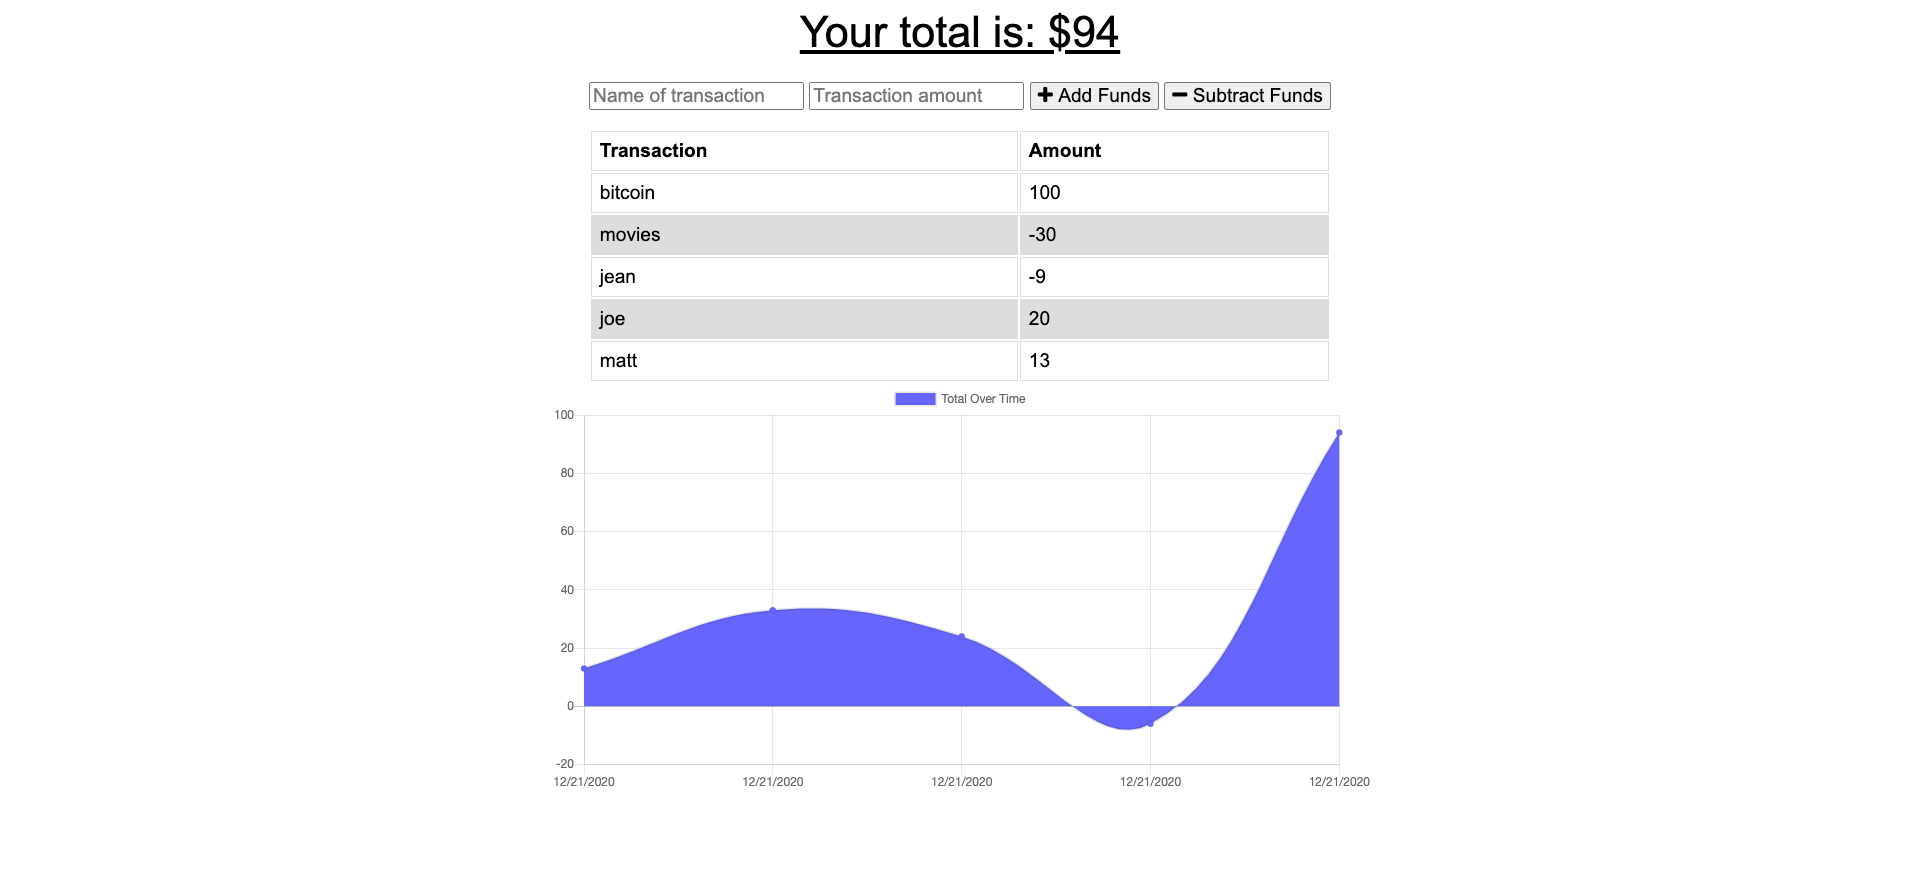
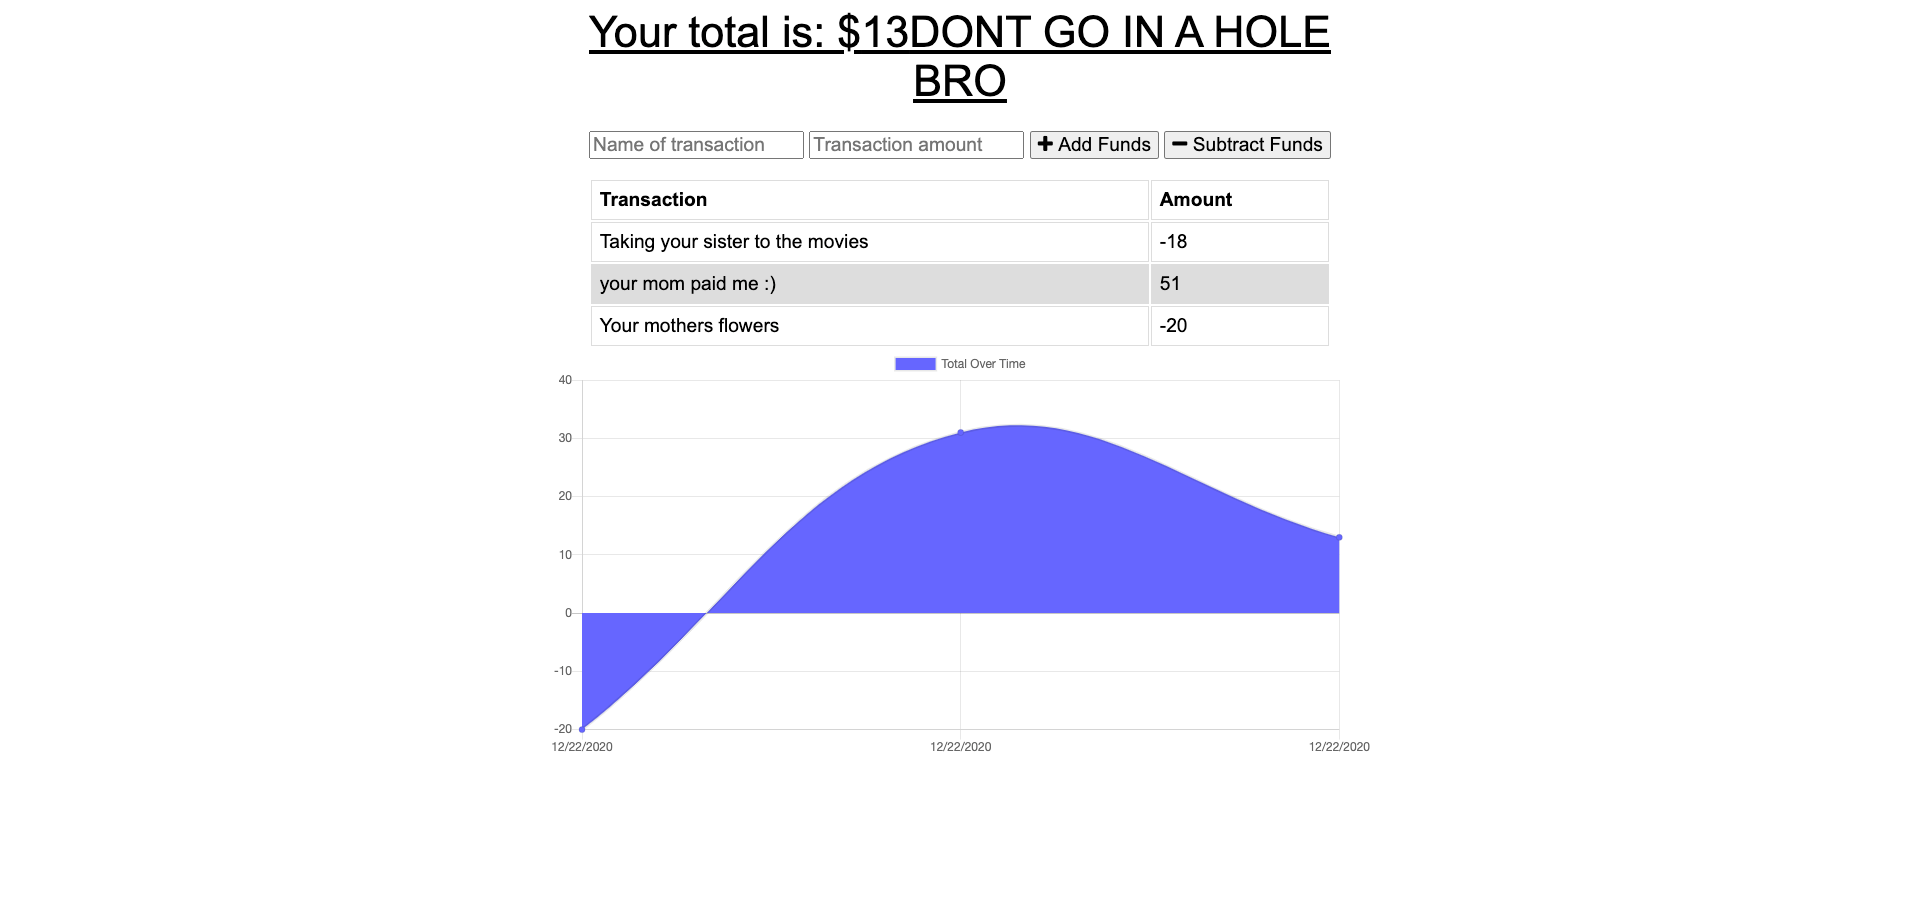
touch ups

diff --git a/public/js/idb.js b/public/js/idb.js
@@ -1,4 +1,3 @@
-//create db var
 let db;
 // create connection to Indexedb db and call it budget_tracker_pwa. Set it to version 1
 const request = window.indexedDB.open('budget_tracker_pwa', 1);
@@ -64,7 +63,6 @@ function uploadTransaction() {
             throw new Error(serverResponse);
           }
 
-          //another one
           const transaction = db.transaction(['budget_tracker_pwa'], 'readwrite');
           const transactionObjectStore = transaction.objectStore('budget_tracker_pwa');
           // clear all items in your store

diff --git a/public/js/index.js b/public/js/index.js
@@ -89,7 +89,6 @@ function sendTransaction(isAdding) {
   if (!isAdding) {
     transaction.value *= -1;
   }
-  // add to beginning of current array of data
 
   transactions.unshift(transaction);
     console.log({ transactions, transaction});
@@ -97,9 +96,6 @@ function sendTransaction(isAdding) {
   populateChart();
   populateTable();
   populateTotal();
-  
-  
-  
   
   // also send to server
   console.log(fetch);

diff --git a/public/index.html b/public/index.html
@@ -16,7 +16,7 @@
 <body>
   <div class="wrapper">
     <div class="total">
-      <div class="total">Your total is: $<span id="total">0</span></div>
+      <div class="total">Your total is: $<span id="total">0</span>DONT GO IN A HOLE BRO</div>
     </div>
 
     <div class="form">

diff --git a/README.md b/README.md
@@ -10,11 +10,9 @@ Budget-Tracker allows you to track your positive or negative expenses.
 > 6. PWA, Cache API, IndexDB
 > 7. Npm packages: morgan and compression
 
-
 # Snapshot
 
 ![Budget Tracker](budget-pic.png)
-
 
 # Table of Contents 
 * [Description](#Description)
@@ -29,20 +27,13 @@ Budget-Tracker allows you to track your positive or negative expenses.
 * To properly install the database you must create at cluster on Mongodb atlas.
 * Run "npm run dev" for the port to start listening with mongoose.
 
-
-
 # Github link
 [Budget-Tracker Repo](https://github.com/Mcowley1/budget-tracker)
-
-
 
 # Heroku
 [Budget-Tracker Heroku link](https://git.heroku.com/enigmatic-brook-39247.git)
 
-
-
-
 # Questions?
-## Please contact me:
+## Contact me:
   * [My GitHub Profile](https://github.com/Mcowley1)
   * Email at: matthewcowley01@gmail.com
